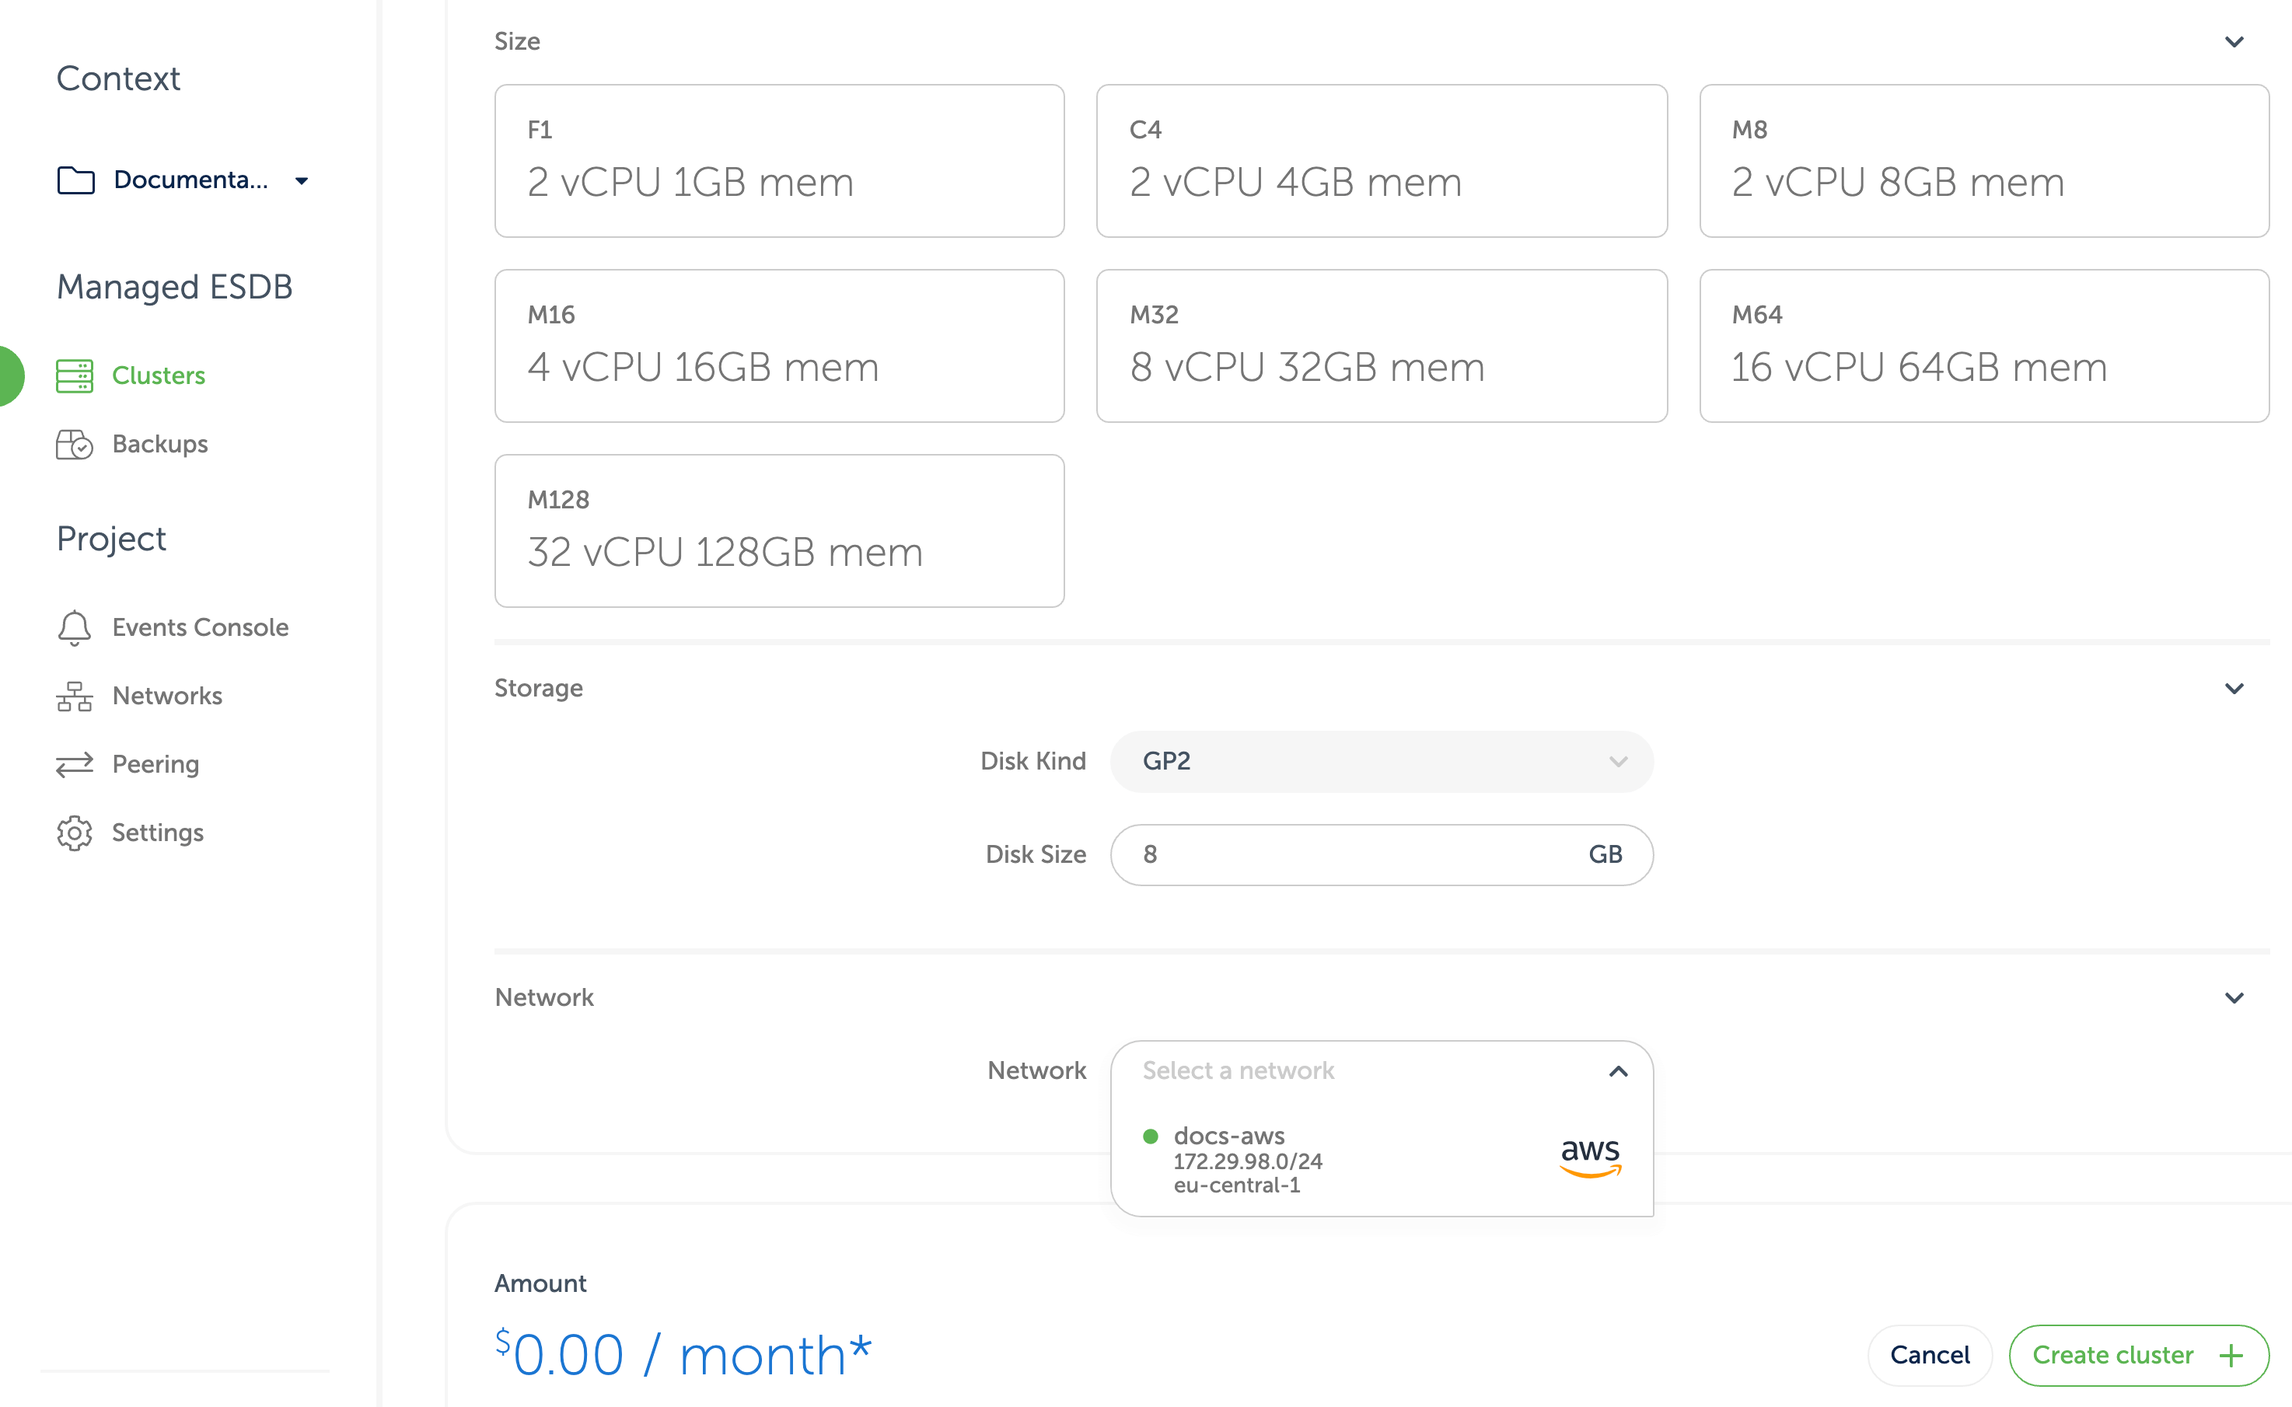
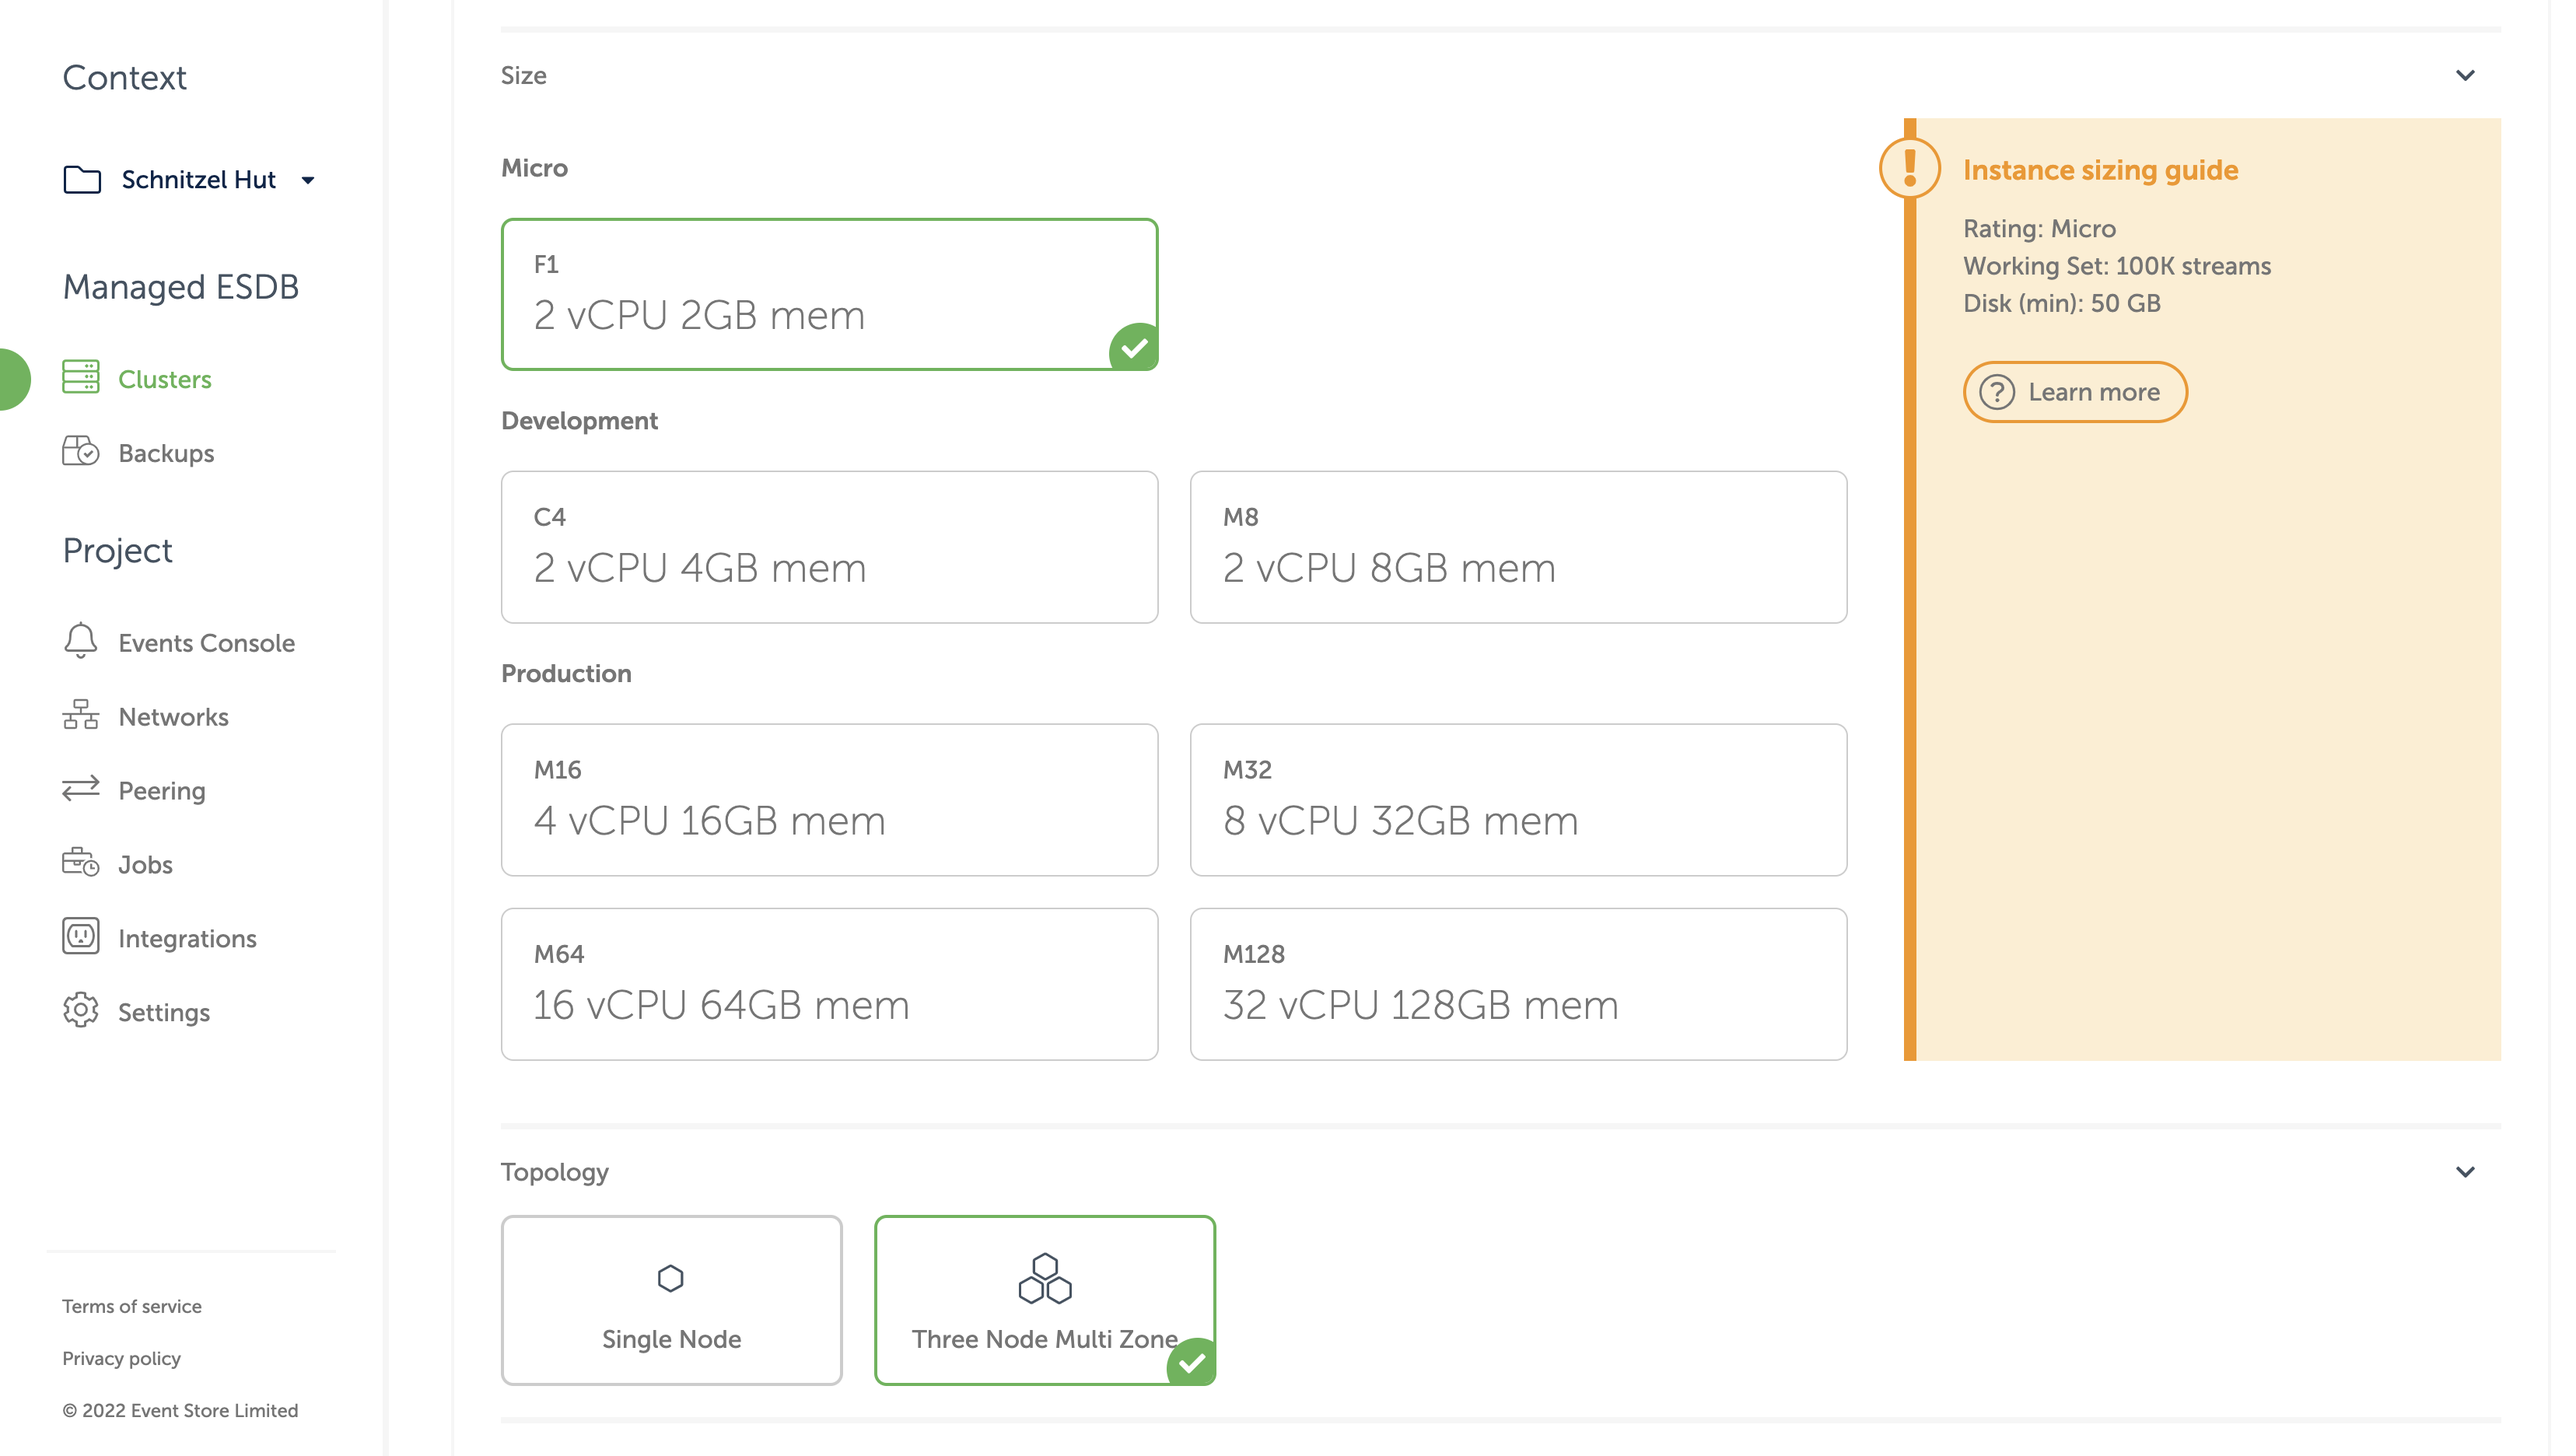
Update aws cluster creation / disk expand

diff --git a/docs/cloud/ops/README.md b/docs/cloud/ops/README.md
@@ -38,7 +38,7 @@ To expand disks in the console, navigate to the clusters view and click on the _
 ![cluster list](./images/disk_expand_list.png)
 :::
 
-On the detail page specify the new disk size and click on _Expand cluster disk_.
+On the detail page specify the new disk size (disk iops and throughput for AWS GP3 disk type) and click on _Expand cluster disk_.
 
 ::: card
 ![cluster_expand_detail](./images/disk_expand_detail.png)
@@ -59,7 +59,7 @@ $ esc mesdb clusters expand \
 
 The Event Store Cloud runs scheduled jobs on the user's behalf. All of these jobs consist of a human-readable description and a schedule.
 
-Currently, the following jobs are supported: 
+Currently, the following jobs are supported:
 * [Scheduled backups](#scheduled-backups)
 
 ### Job Schedules
@@ -70,17 +70,17 @@ The supported subset is:
 
 * for the first field, minute:
     * a wildcard `*`
-    * a number between `0` and `59` (inclusive). 
+    * a number between `0` and `59` (inclusive).
     * a rate, written as a wildcard divided by a number. E.g:  `*/15`
 * For the second field, hour:
     * a wildcard `*`
     * a number must be between `0` and `23` (inclusive)
     * a rate, written as a wildcard divided by a number. E.g:  `*/1`
-* for the third field, day of month: 
+* for the third field, day of month:
     * a wildcard `*`
-* for the fourth field, month: 
+* for the fourth field, month:
     * a wildcard `*`
-* for the fifth field, day of the week: 
+* for the fifth field, day of the week:
     * a wildcard `*`
     * a number between `0` and `7` (inclusive), Sunday to Saturday
 
@@ -89,9 +89,9 @@ The supported subset is:
  │ ┌─────────── Hour: wildcard, number (0 - 23), rate
  │ │ ┌───────── Day of the month: wildcard
  │ │ │ ┌─────── Month: wildcard
- │ │ │ │ ┌───── Day of the week: wildcard, number (0 - 7) 
+ │ │ │ │ ┌───── Day of the week: wildcard, number (0 - 7)
  │ │ │ │ │
- * * * * * 
+ * * * * *
 ```
 
 ::: note
@@ -100,7 +100,7 @@ Scheduled backups have a minimum frequency of 60 minutes. Currently, it is not p
 
 #### Examples:
 
-`0 */1 * * *` runs a job once an hour, at minute 00. 
+`0 */1 * * *` runs a job once an hour, at minute 00.
 
 `0 12 * * 1` runs a job at 12:00 PM on Monday.
 
@@ -150,7 +150,7 @@ To create a backup, use the `backups create` command:
 ``` bash
 $ esc mesdb backups create --description "on demand backup" \
     --source-cluster-id c1eut65o0aeu6ojco7a0 \
-    --project-id btfjev2rh41scaatc1k0 
+    --project-id btfjev2rh41scaatc1k0
 
 BackupId("c1ev3l5o0aeu6ojco7b0")
 ```
@@ -160,14 +160,14 @@ To see the status of the backup use the `backups get` command:
 ``` bash
 $ esc mesdb backups get --project-id btfjev2rh41scaatc1k0 \
     --id c1ev3l5o0aeu6ojco7b0
-    
-Backup { id: BackupId("c1ev3l5o0aeu6ojco7b0"), 
-project_id: ProjectId("btfjev2rh41scaatc1k0"), 
-source_cluster_id: ClusterId("c1eut65o0aeu6ojco7a0"), 
-source_cluster_description: "Demo-Backup", 
-description: "on demand backup", size_gb: 8, 
-provider: Aws, region: "eu-central-1", 
-status: "available", created: "2021-03-26T14:38:12Z", 
+
+Backup { id: BackupId("c1ev3l5o0aeu6ojco7b0"),
+project_id: ProjectId("btfjev2rh41scaatc1k0"),
+source_cluster_id: ClusterId("c1eut65o0aeu6ojco7a0"),
+source_cluster_description: "Demo-Backup",
+description: "on demand backup", size_gb: 8,
+provider: Aws, region: "eu-central-1",
+status: "available", created: "2021-03-26T14:38:12Z",
 linked_resource: None }
 ```
 

diff --git a/docs/cloud/provision/README.md b/docs/cloud/provision/README.md
@@ -96,7 +96,11 @@ At this moment, it is not possible to change the cluster node instance size. You
 ![AWS cluster second part](./images/aws/aws-new-cluster-2.png)
 :::
 
-Further, you need to specify the storage capacity. One disk kind is available at the moment, but you can change the disk size. Since we allow customers to expand the storage size online without service interruptions, you can start with smaller storage and expand it when you need more capacity.
+Further, you need to specify the storage capacity. One disk kind is available at the moment, but you can change the disk size, IOPS and throughput. Since we allow customers to expand the storage size online without service interruptions, you can start with smaller storage and expand it when you need more capacity.
+
+::: card
+![AWS cluster third part](./images/aws/aws-new-cluster-3.png)
+:::
 
 Finally, choose the network provisioned previously from the list. All cluster nodes will be attached to that network.
 
@@ -625,6 +629,6 @@ Due to the burstable CPU class, CPU shares are limited, this results in the foll
 
 ### Disk Types
 
-#### GP3 Disk Kind
+#### GP3
 
 [GP3](https://docs.aws.amazon.com/AWSEC2/latest/UserGuide/ebs-volume-types.html#gp3-ebs-volume-type) disk kind provides better base IOPS (3000 IOPS base compared to 3*`disk size` in GP2 with burst balance), IOPS and Throughput do not depend on disk size.

diff --git a/docs/cloud/automation/README.md b/docs/cloud/automation/README.md
@@ -284,7 +284,7 @@ Use the `eventstorecloud_managed_cluster` resource to provision an EventStoreDB 
 
 Supported instance sizes are:
 
-| Size   | Specification                                                              |
+| Size   | Specification                                                    |
 |:-------|:-----------------------------------------------------------------|
 | `F1`   | 2 vCPU 1Gb RAM (burstable instance, not suitable for production) |
 | `C4`   | 2 vCPU 8Gb RAM                                                   |
